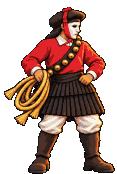
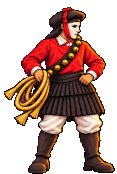
Snappy play screen back: carved steps, the earlier notes and drawn rings; figures in their own colours; drawn bob timing; Suno songs only
- Step buttons are the carved steps again (sink on a press), their frame laid
  as corners and repeated edges and wood, never stretched (STEP_BUTTONS)
- Notes, bell straps, arrows, rope and knot from before the ChatGPT kits; the
  pxl hit rings back on (PXL_RINGS)
- Bob figures keep their own colours (no palette snap in outputs.py)
- PixelFigure.bob_frame: the four poses at their drawn times (200/90/80/130 ms
  at 120 BPM), the going-down pose leading into the beat, scaled to faster tempos
- Story and free play list only recorded songs (Suno originals and remixes);
  the tutorial is found on its own (SongLibrary.tutorial()); Bonfires, Piazza
  and Shrove Tuesday Suno songs taken from the Suno branch with its calibration fix

Claude-Session: https://claude.ai/code/session_01J7xgx64WWNuRUcw6gKL3rb

diff --git a/tools/art/chatgpt/outputs.py b/tools/art/chatgpt/outputs.py
@@ -12,8 +12,9 @@ issohadore-bob-test/   poses of the bob (0 up, 1 going down, 2 down, 3 coming ba
                        like the figures they replace, feet on the canvas's bottom middle
 phone-restart/      -> game/art/px/setup/phone_<i>.png (see setup.py)
 
-Each frame: magenta fringe keyed off, stray specks dropped, put on the art grid, snapped to the style
-palette without the notes' colours, written 1:1 (the game draws them one texel per cell).
+Each frame: magenta fringe keyed off, stray specks dropped, put on the art grid and written 1:1 (the
+game draws them one texel per cell). The fire is snapped to the style palette without the notes'
+colours; the figures keep their own colours.
 """
 import os
 import json
@@ -74,7 +75,6 @@ def seat(g, flame=True):
 
 
 def figures():
-    pal = c.palette(reserved=False)
     out = os.path.join(c.GAME, "art/ai/fig")
     H = 172
     for fig in ("mamuthone", "issohadore"):
@@ -93,7 +93,9 @@ def figures():
             pad = np.zeros((floor - t0, r0 - l0, 4), np.uint8)
             sl, sr = max(l0, 0), min(r0, fr.shape[1])
             pad[:, sl - l0:sr - l0] = fr[t0:floor, sl:sr]
-            g = c.snap(c.grid(pad, f), pal)
+            # their own colours, only shrunk (Daniele, 2026-10-28: snapped to the style palette they came
+            # out recoloured, orange and red specks through the fleece)
+            g = c.grid(pad, f)
             c.save(g, os.path.join(out, "%s_bob_%d.png" % (fig, i)))
 
 
